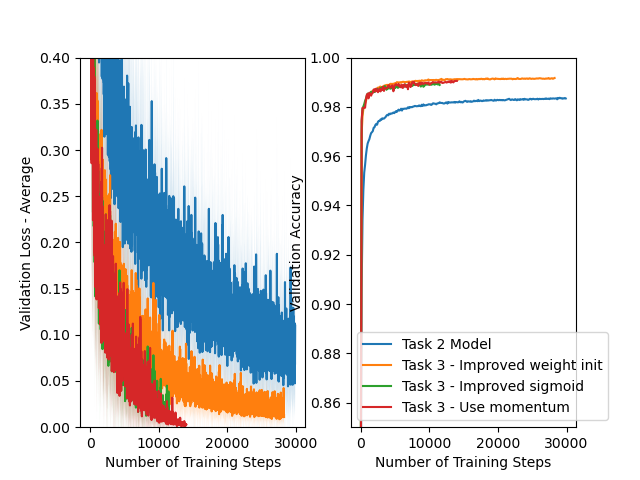
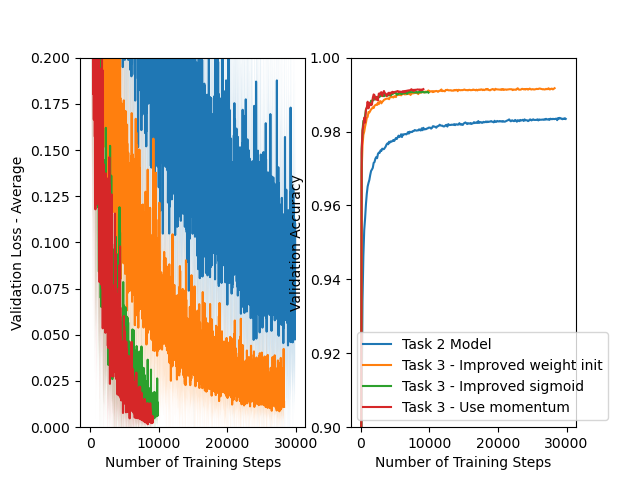
A2: Task4: almost done with 4d

diff --git a/assignment2/task2a.py b/assignment2/task2a.py
@@ -4,7 +4,7 @@ import typing
 np.random.seed(1)
 
 
-def pre_process_images(X: np.ndarray, mean = 33.55274553571429, std = 78.87550070784701):
+def pre_process_images(X: np.ndarray, mean=33.55274553571429, std=78.87550070784701):
     """
     Args:
         X: images of shape [batch size, 784] in the range (0, 255)
@@ -39,29 +39,40 @@ def cross_entropy_loss(targets: np.ndarray, outputs: np.ndarray):
     return loss
     raise NotImplementedError
 
+
 def improved_sigmoid(z: np.ndarray) -> np.ndarray:
     return 1.7159*np.tanh((2/3)*z)
 
-def dimproved_sigmoid(z: np.ndarray) -> np.ndarray:
-    # I used Symbolab for this...
-    return 1.7159*(2/3)/np.power(np.cosh((2/3)*z),2)
+
+def dimproved_sigmoid(a: np.ndarray) -> np.ndarray:
+    """
+    Since we will be inputting a into the function,
+    we have a=improved_sigmoid(z). The derivative
+    becomes the following:
+    """
+
+    return (2.0/3.0)*(1.7159- (1/1.7159)*a**2)
 
 def sigmoid(z: np.ndarray) -> np.ndarray:
     return 1.0/(1.0+np.exp(-z))
 
-def dsigmoid(z: np.ndarray) -> np.ndarray:
-    return z*(1.0-z)
+
+def dsigmoid(a: np.ndarray) -> np.ndarray:
+    return a*(1.0-a)
+
 
 def softmax(x):
     """Compute softmax values for each sets of scores in x."""
     denominator = np.exp(x).sum(axis=1)[np.newaxis, :].T  # [batch_size, 1]
-    numerator = np.exp(x) # [batch size, num_outputs]
-    res = numerator/denominator # Elementwise numerator[batch,:]/denominator[batch]
+    numerator = np.exp(x)  # [batch size, num_outputs]
+    # Elementwise numerator[batch,:]/denominator[batch]
+    res = numerator/denominator
 
-    assert np.sum(res, axis=1).all()==1,\
+    assert np.sum(res, axis=1).all() == 1,\
         f"Sum of softmax is not 1"
-        
+
     return res
+
 
 class SoftmaxModel:
 
@@ -82,9 +93,6 @@ class SoftmaxModel:
         # A hidden layer with 64 neurons and a output layer with 10 neurons.
         self.neurons_per_layer = neurons_per_layer
 
-
-        # print(self.hidden_layer_output.shape)
-
         # Initialize the weights
         self.ws = []
         prev = self.I
@@ -92,46 +100,30 @@ class SoftmaxModel:
             w_shape = (prev, size)
             # print("Initializing weight to shape:", w_shape)
             # w = np.zeros(w_shape)
-            if use_improved_weight_init: #Task 3a
-                fan_in = size # For readability
-                w = np.random.normal(0,1/np.sqrt(fan_in), w_shape)
+            if use_improved_weight_init:  # Task 3a
+                fan_in = size  # For readability
+                w = np.random.normal(0, 1/np.sqrt(fan_in), w_shape)
             else:
-                w = np.random.uniform(-1, 1, w_shape) # Task 2c
+                w = np.random.uniform(-1, 1, w_shape)  # Task 2c
             self.ws.append(w)
             prev = size
         self.grads = [None for i in range(len(self.ws))]
-        self.hidden_layer_output = [None for i in range(len(neurons_per_layer)-1)]
+        self.hidden_layer_output = [
+            None for i in range(len(neurons_per_layer)-1)]
 
-    def forward(self, X: np.ndarray, layer = 0) -> np.ndarray:
+    def forward(self, X: np.ndarray, layer=0) -> np.ndarray:
         """
         Args:
             X: images of shape [batch size, 785]
         Returns:
             y: output of model with shape [batch size, num_outputs]
         """
-        # z = X @ self.ws[layer]
-        # if (layer == len(self.neurons_per_layer)-1):
-        #     # We are at the output layer
-        #     z = self.hidden_layer_output[-1] @ self.ws[-1]
-        #     out = softmax(z)
-        #     return out
-        # else:
-        #     if (self.use_improved_sigmoid):
-        #         a = improved_sigmoid(z)
-        #     else:
-        #         a = sigmoid(z)
-        #     self.hidden_layer_output[layer] = a
-        #     out = self.forward(self.hidden_layer_output[layer], layer + 1)
-        #     return out
-            
-
-
         z = X @ self.ws[0]
         if (self.use_improved_sigmoid):
             a = improved_sigmoid(z)
         else:
             a = sigmoid(z)
-        
+
         self.hidden_layer_output[0] = a
         for l in range(1, len(self.hidden_layer_output)):
             # Iterate through all but the last layer
@@ -140,7 +132,8 @@ class SoftmaxModel:
                 a = improved_sigmoid(z)
             else:
                 a = sigmoid(z)
-            self.hidden_layer_output[l]=a
+            self.hidden_layer_output[l] = a
+
 
         # To output layer, softmax function
         z = self.hidden_layer_output[-1] @ self.ws[-1]
@@ -160,54 +153,32 @@ class SoftmaxModel:
         # Task 2b
         assert targets.shape == outputs.shape,\
             f"Output shape: {outputs.shape}, targets: {targets.shape}"
-        
+
         batch_size = X.shape[0]
         # Hint 2 from task 1a
-        delta = -(targets-outputs)
 
-        # EQ 1 from assignment 2
-        # Starting at output layer
-        output_grad: np.ndarray = delta.T@self.hidden_layer_output[-1]/ batch_size
+        delta = -(targets - outputs)
+
+        output_grad: np.ndarray = delta.T@self.hidden_layer_output[-1] / batch_size
         self.grads[-1] = output_grad.T
 
-        for i in range(len(self.hidden_layer_output)-1, -1, -1):
+        for i in range(len(self.hidden_layer_output)-1, 0, -1):
             if self.use_improved_sigmoid:
-                delta = dimproved_sigmoid(self.hidden_layer_output[i])*np.dot(delta, self.ws[i+1].T)
+                delta = dimproved_sigmoid(
+                    self.hidden_layer_output[i])*(delta@self.ws[i+1].T)
             else:
-                delta = dsigmoid(self.hidden_layer_output[i])*np.dot(delta, self.ws[i+1].T)
-            if i == 0:
-                self.grads[i]=np.dot(delta.T,X).T / batch_size
-            else:
-                self.grads[i] = np.dot(delta.T, self.hidden_layer_output[i-1]).T/ batch_size
+                delta = dsigmoid(
+                    self.hidden_layer_output[i])*(delta@self.ws[i+1].T)
+            self.grads[i] = self.hidden_layer_output[i-1].T@delta/batch_size
 
-        # for l in range(len(self.hidden_layer_output)-1, -1, -1):
-        #     print("hidden layer shape: " + str(self.hidden_layer_output[l].shape))
-        #     # print("ws[l+1] shape: " + str(self.ws[l+1].shape))
-        #     # print("ws[l] shape: " +str(self.ws[l].shape))
-        #     # print("delta shape: " +str(delta.shape))
-        #     if self.use_improved_sigmoid:
-        #         delta = dimproved_sigmoid(self.hidden_layer_output[l]).T * (self.ws[l+1]@delta.T)
-        #     else:
-        #         delta = dsigmoid(self.hidden_layer_output[l]).T * (self.ws[l+1]@delta.T)
-        #     # print("Delta shape: " +str(delta.shape))
-        #     # print("Hidden layer output[l-1]: "+str(self.hidden_layer_output[l-1].shape))
-        #     self.grads[l] = (delta@self.hidden_layer_output[l-1]/outputs.shape[0]).T
-        #     # print("Delta shape: " +str(delta.shape))
-        #     # print("Exited at l " +str(l))
-
-        # # # EQ 3 from assignment 2 (ish)
-        # if self.use_improved_sigmoid: #Task 3b
-        #     delta_j = dimproved_sigmoid(self.hidden_layer_output).T * (self.ws[1]@delta_k.T)
-        # else:
-        #     delta_j = dsigmoid(self.hidden_layer_output).T * (self.ws[1]@delta_k.T)
-        # print("X shape: "+str(X.shape))
-        # From input layer to first layer
-        # first_layer_grad: np.ndarray = delta@X / outputs.shape[0]
-        # self.grads[0] = first_layer_grad.T
-
-
-        # self.grads[0] = hidden_layer_grad.T
-        # self.grads[1] = output_grad.T
+        # First layer:
+        if self.use_improved_sigmoid:
+            delta = dimproved_sigmoid(
+                self.hidden_layer_output[0])*(delta@self.ws[1].T)
+        else:
+            delta = dsigmoid(
+                self.hidden_layer_output[0])*(delta@self.ws[1].T)
+        self.grads[0] = X.T@delta/batch_size
 
         for grad, w in zip(self.grads, self.ws):
             assert grad.shape == w.shape,\
@@ -215,6 +186,15 @@ class SoftmaxModel:
 
     def zero_grad(self) -> None:
         self.grads = [None for i in range(len(self.ws))]
+
+    def print_num_parameters(self) -> None:
+        layer = 0
+        total_params = 0
+        for w in self.ws:
+            total_params += w.shape[0]*w.shape[1]
+            print("w[" + str(layer) + "]: " + str(w.shape))
+            layer += 1
+        print("Total parameters: " + str(total_params))
 
 
 def one_hot_encode(Y: np.ndarray, num_classes: int):

diff --git a/assignment2/task3.py b/assignment2/task3.py
@@ -27,7 +27,8 @@ if __name__ == "__main__":
     Y_train = one_hot_encode(Y_train, 10)
     Y_val = one_hot_encode(Y_val, 10)
 
-    """ Task 3, uncomment to run
+    """
+    # Task 3, uncomment to run
     model = SoftmaxModel(
         neurons_per_layer,
         use_improved_sigmoid,
@@ -39,10 +40,6 @@ if __name__ == "__main__":
     )
     train_history, val_history = trainer.train(num_epochs)
 
-    # Example created for comparing with and without shuffling.
-    # For comparison, show all loss/accuracy curves in the same plot
-    # YOU CAN DELETE EVERYTHING BELOW!
-    # Use improved weight init
     use_improved_weight_init = True
     model_improved_weight_init = SoftmaxModel(
         neurons_per_layer,
@@ -94,11 +91,11 @@ if __name__ == "__main__":
         train_history_improved_sigmoid["loss"], "Task 3 - Improved weight init+sigmoid", npoints_to_average=10)
     utils.plot_loss(
         train_history_use_momentum["loss"], "Task 3 - Improved weight init+sigmoid+momentum", npoints_to_average=10)
-    plt.ylim([0, .4])
+    plt.ylim([0, .2])
     plt.xlabel("Number of Training Steps")
     plt.ylabel("Validation Loss - Average")
     plt.subplot(1, 2, 2)
-    plt.ylim([0.85,  1.0])
+    plt.ylim([0.9,  1.0])
     utils.plot_loss(val_history["accuracy"], "Task 2 Model")
     utils.plot_loss(
         val_history_improved_weight_init["accuracy"], "Task 3 - Improved weight init")
@@ -128,12 +125,14 @@ if __name__ == "__main__":
     print(tabulate(data, headers=["Technique added", "Final Validation Loss", "Final Validation Accuracy"]))
     plt.show()
     """
-
-    # Task 4 a
+    
+    # Task 4
     use_improved_sigmoid = True
     use_improved_weight_init = True
     use_momentum = True
-
+    learning_rate = 0.02
+    """ 
+    #Task 4 a and b
     model_64 = SoftmaxModel(
         neurons_per_layer,
         use_improved_sigmoid,
@@ -162,12 +161,12 @@ if __name__ == "__main__":
         train_64_history["loss"], "64 hidden layer neurons", npoints_to_average=10)
     utils.plot_loss(
         train_32_history["loss"], "32 hidden layer neurons", npoints_to_average=10)
-    plt.ylim([0, .6])
+    plt.ylim([0, .2])
     # plt.legend()
     plt.xlabel("Number of Training Steps")
     plt.ylabel("Validation Loss - Average")
     plt.subplot(1, 2, 2)
-    plt.ylim([0.85,  1.0])
+    plt.ylim([0.9,  1.0])
     utils.plot_loss(val_64_history["accuracy"], "64 hidden layer neurons")
     utils.plot_loss(val_32_history["accuracy"], "32 hidden layer neurons")
     plt.xlabel("Number of Training Steps")
@@ -194,12 +193,12 @@ if __name__ == "__main__":
         train_64_history["loss"], "64 hidden layer neurons", npoints_to_average=10)
     utils.plot_loss(
         train_128_history["loss"], "128 hidden layer neurons", npoints_to_average=10)
-    plt.ylim([0, .6])
+    plt.ylim([0, .2])
     plt.xlabel("Number of Training Steps")
     plt.ylabel("Validation Loss - Average")
     # plt.legend()
     plt.subplot(1, 2, 2)
-    plt.ylim([0.85,  1.0])
+    plt.ylim([0.9,  1.0])
     utils.plot_loss(val_64_history["accuracy"], "64 hidden layer neurons")
     utils.plot_loss(val_128_history["accuracy"], "128 hidden layer neurons")
     plt.xlabel("Number of Training Steps")
@@ -207,3 +206,82 @@ if __name__ == "__main__":
     plt.legend()
     plt.savefig("task4b.png")
     plt.show()
+    """
+    # Task 4d
+    model = SoftmaxModel(
+        neurons_per_layer,
+        use_improved_sigmoid,
+        use_improved_weight_init)
+    trainer = SoftmaxTrainer(
+        momentum_gamma, use_momentum,
+        model, learning_rate, batch_size, shuffle_data,
+        X_train, Y_train, X_val, Y_val,
+    )
+    train_history, val_history = trainer.train(num_epochs)
+    """
+    # Task 4d two-layer
+    neurons_per_layer = [60, 60, 10]
+    model_two_hl = SoftmaxModel(
+        neurons_per_layer,
+        use_momentum,
+        use_improved_weight_init)
+    trainer_two_hl = SoftmaxTrainer(
+        momentum_gamma, use_momentum,
+        model_two_hl, learning_rate, batch_size, shuffle_data,
+        X_train, Y_train, X_val, Y_val,
+    )
+    train_history_two_hl, val_history_two_hl = trainer_two_hl.train(num_epochs)
+
+    plt.subplot(1, 2, 1)
+    utils.plot_loss(train_history["loss"],
+                    "Neurons: [64, 10]", npoints_to_average=10)
+    utils.plot_loss(
+        train_history_two_hl["loss"], "Neurons: [64, 64, 10]", npoints_to_average=10)
+    plt.ylim([0, .2])
+    plt.xlabel("Number of Training Steps")
+    plt.ylabel("Validation Loss - Average")
+    plt.subplot(1, 2, 2)
+    plt.ylim([0.9,  1.0])
+    utils.plot_loss(val_history["accuracy"], "Neurons: [64, 10]")
+    utils.plot_loss(
+        val_history_two_hl["accuracy"], "Neurons: [64, 64, 10]")
+    plt.xlabel("Number of Training Steps")
+    plt.ylabel("Validation Accuracy")
+    plt.legend()
+    plt.savefig("task4d.png")
+    """
+    # Task 4e
+    # neurons_per_layer = [64 for i in range(10)].append(10)
+    neurons_per_layer = [64]*10
+    neurons_per_layer.append(10)
+    model_ten_hl = SoftmaxModel(
+        neurons_per_layer,
+        use_momentum,
+        use_improved_weight_init)
+    
+    # model_ten_hl.print_num_parameters()
+    
+    trainer_ten_hl = SoftmaxTrainer(
+        momentum_gamma, use_momentum,
+        model_ten_hl, learning_rate, batch_size, shuffle_data,
+        X_train, Y_train, X_val, Y_val,
+    )
+    train_history_ten_hl, val_history_ten_hl = trainer_ten_hl.train(num_epochs)
+
+    plt.subplot(1, 2, 1)
+    utils.plot_loss(train_history["loss"],
+                    "Neurons: [64, 10]", npoints_to_average=10)
+    utils.plot_loss(
+        train_history_ten_hl["loss"], "Neurons: 10 layers of 64, then 10", npoints_to_average=10)
+    plt.ylim([0, .2])
+    plt.xlabel("Number of Training Steps")
+    plt.ylabel("Validation Loss - Average")
+    plt.subplot(1, 2, 2)
+    plt.ylim([0.9,  1.0])
+    utils.plot_loss(val_history["accuracy"], "Neurons: [64, 10]")
+    utils.plot_loss(
+        val_history_ten_hl["accuracy"], "Neurons: 10 layers of 64, then 10")
+    plt.xlabel("Number of Training Steps")
+    plt.ylabel("Validation Accuracy")
+    plt.legend()
+    plt.savefig("task4e.png")
